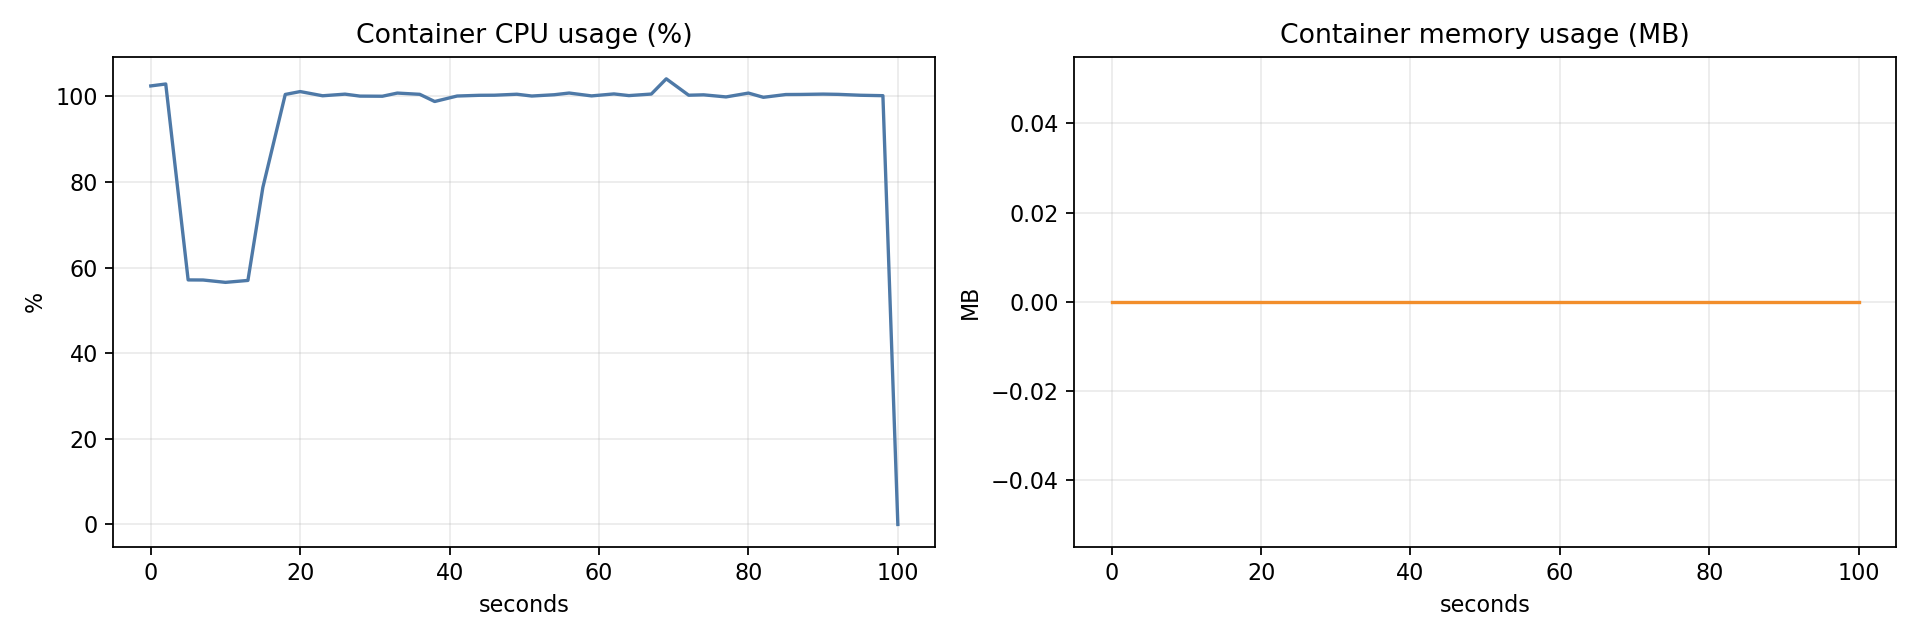
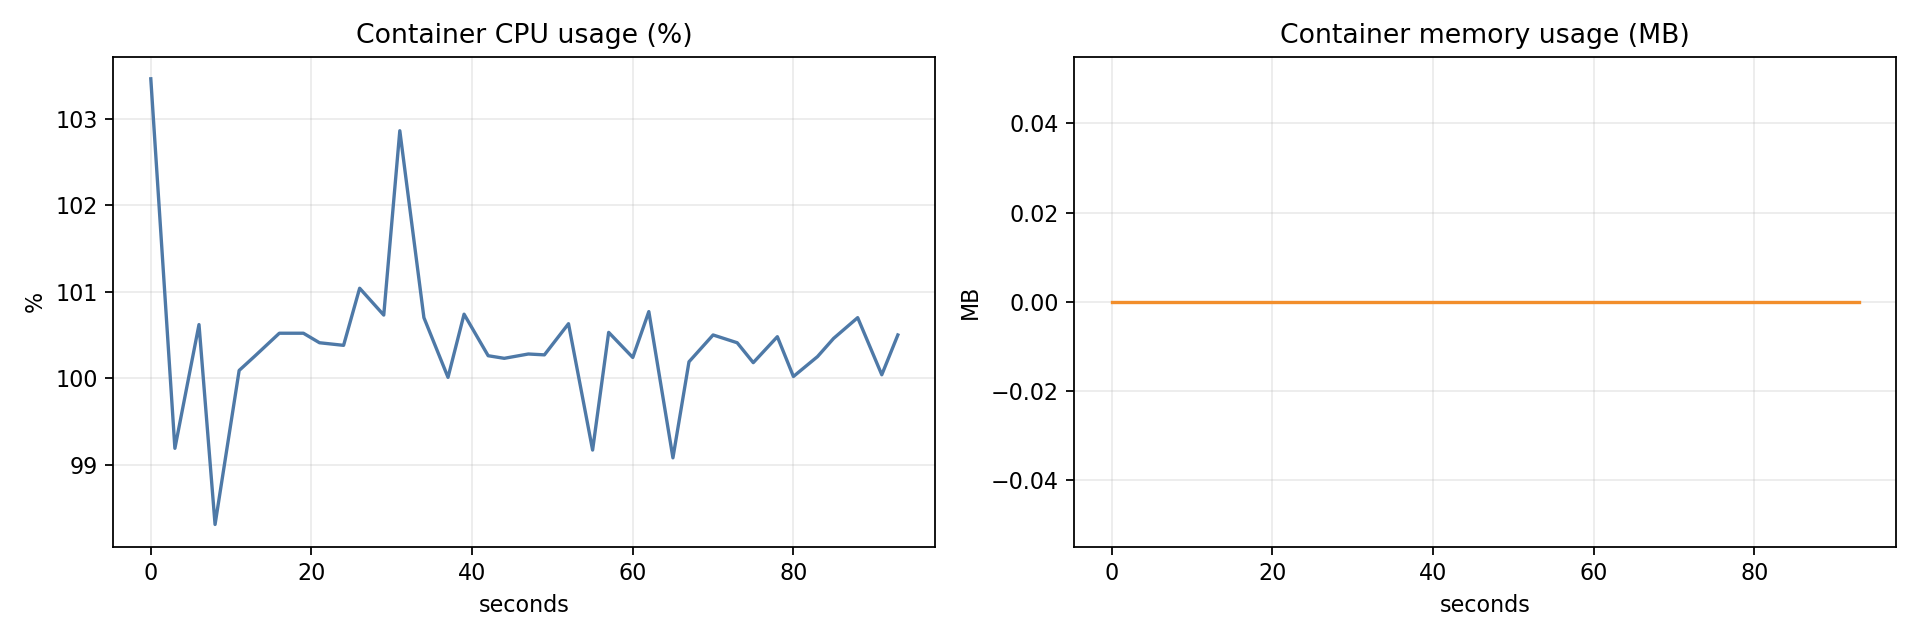
chore: rerun docker 10M@200m benchmark and refresh report artifacts

diff --git a/reports/docker_10m_200m/REPORT.md b/reports/docker_10m_200m/REPORT.md
@@ -2,21 +2,21 @@
 
 ## Single-run benchmark results
 
-- JsonNode: 30737 ms, 325340.79 rows/s, mem_delta=38.49 MB
-- POJO: 30053 ms, 332745.48 rows/s, mem_delta=6.46 MB
+- JsonNode: 30758 ms, 325118.67 rows/s, mem_delta=38.49 MB
+- POJO: 29950 ms, 333889.82 rows/s, mem_delta=6.74 MB
 
-- Throughput compare: **POJO +2.28%** vs JsonNode
-- Time compare: **POJO faster by 684 ms**
+- Throughput compare: **POJO +2.70%** vs JsonNode
+- Time compare: **POJO faster by 808 ms**
 
 ## GC summary
 
-- JsonNode: events=756, pause_sum=522.35 ms, pause_max=26.31 ms, pause_p95=0.73 ms
-- POJO: events=459, pause_sum=310.70 ms, pause_max=45.47 ms, pause_p95=0.50 ms
+- JsonNode: events=756, pause_sum=509.55 ms, pause_max=16.10 ms, pause_p95=0.68 ms
+- POJO: events=459, pause_sum=250.11 ms, pause_max=18.87 ms, pause_p95=0.44 ms
 
 ## Container CPU/Memory stats
 
-- samples: 40
-- CPU avg: **93.14%**, CPU peak: **104.11%**
+- samples: 37
+- CPU avg: **100.41%**, CPU peak: **103.46%**
 - Mem avg: **0.00 MB**, Mem peak: **0.00 MB**
 
 ## Charts
